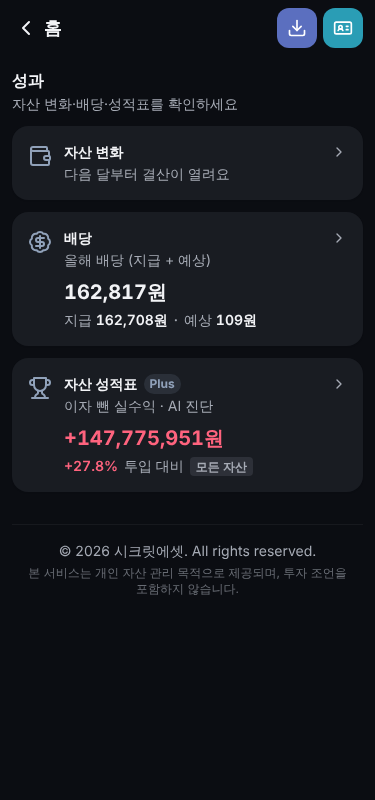
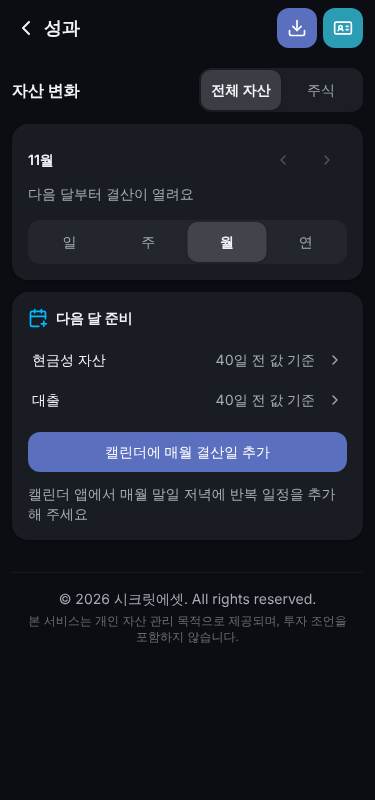
memory: 4.51 운영 스모크 PASS

diff --git a/issues/4.51-83-month-composition/4.51-qa-report.md b/issues/4.51-83-month-composition/4.51-qa-report.md
@@ -46,3 +46,23 @@ C1 PASS(홈 도넛과 분모 차는 배지·힌트로 구분) · C2 PASS · C3 P
 
 ---
 
+
+## 운영 스모크 (2026-11-08, main 4fee68c 머지 후, https://www.secretasset.xyz)
+
+판정: **PASS**
+
+| 항목 | 결과 |
+|---|---|
+| 배포 반영 | 설정 화면 `v4.51` 확인 |
+| 성과 > 자산 변화 > 월: 블록 표시 | 10월 결산(9/28→10/28)에서 원인 아래 `composition-block` 1개, 배지 "총자산 기준"·사실 문장·막대 2줄·4행 정상. 375·1280 스크린샷 |
+| 비중 변화 있는 경우 | 주식 2%→4% +2%p, 부동산 95%→93% −2%p 등 부호(U+2212)·"변화 없음" 정상 |
+| 비중 동일한 경우 | "이 구간 동안 구성이 거의 같아요" 정상 |
+| 숨김: 9월 결산(시작 8월 breakdown 없음) | 월 화살표로 이동 시 블록 사라지고 AI 행이 원인 바로 아래 |
+| 숨김: 첫 달 | 성과 카드 "다음 달부터 결산이 열려요", 블록 0 |
+| 결산 Hero·원인·AI 행 | 정상(금액·원인·"AI에게 N월 변화 물어보기" 표시) |
+| 홈 결산 팁 | 홈 렌더 정상(합성 데이터 기준 이상 없음, 결산 팁 문구 변경 0) |
+| 4.50 맞추기 대화상자 | 주식 › 스크린샷 가져오기 → `resync-dialog` 열림(375·1280) |
+| 콘솔 앱 오류 | 홈·상세·성과·설정 0건 |
+| 가로 넘침 | 375·1280 홈·상세·성과·설정 모두 0 |
+
+환경 차이: 운영은 `?demo` 없음 → preview 데모 localStorage를 덤프해 Playwright로 운영에 이식(월 스냅샷 breakdown 조작으로 변화·무변화·첫 달 3경우). gtag/프록시 관련 네트워크 오류는 샌드박스 한계로 제외. AI 대화상자 "복사"·실제 인식 호출은 미실행. 스크린샷 `screenshots/prod-*.png`, `prod-comp-*.png`.
